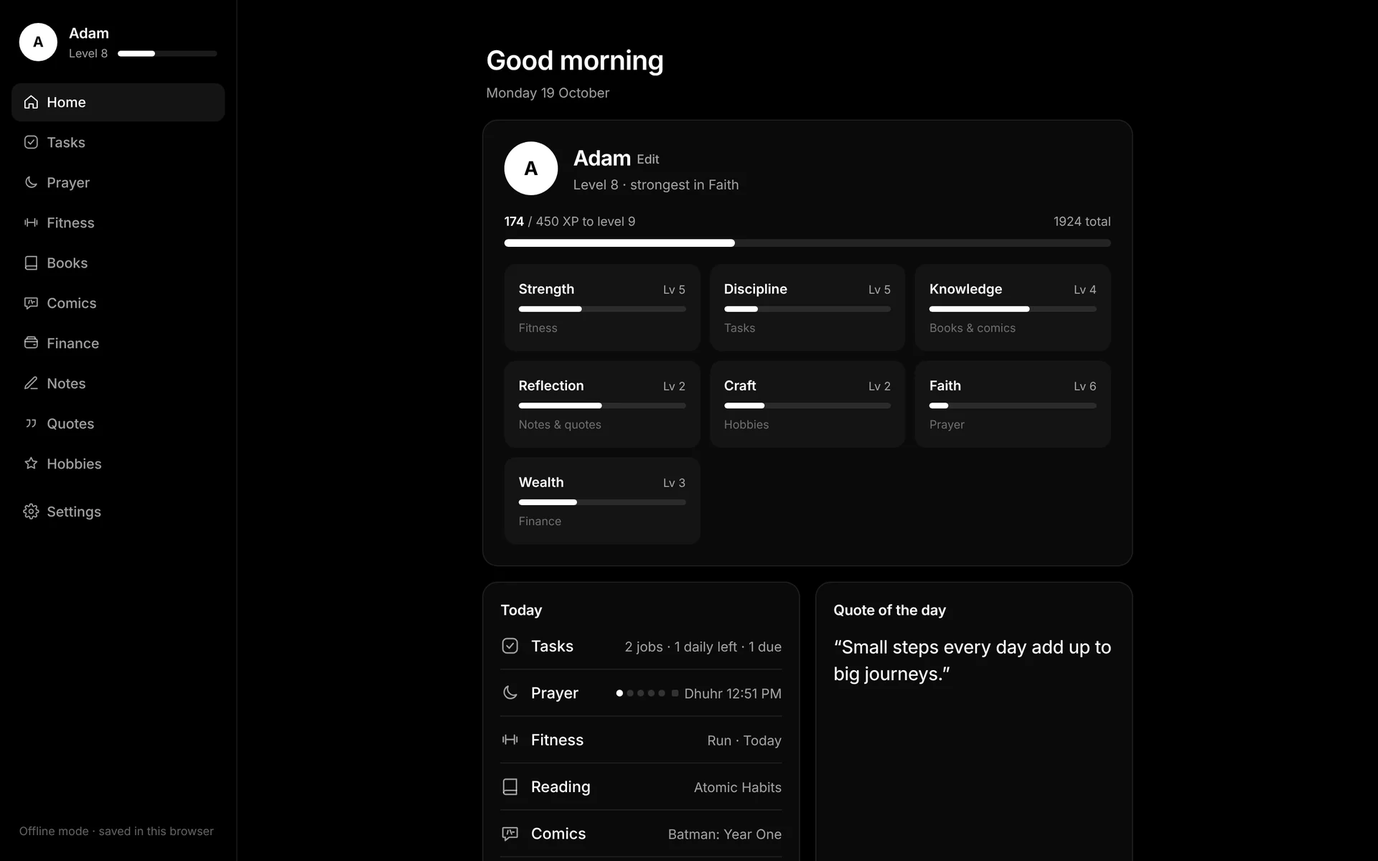
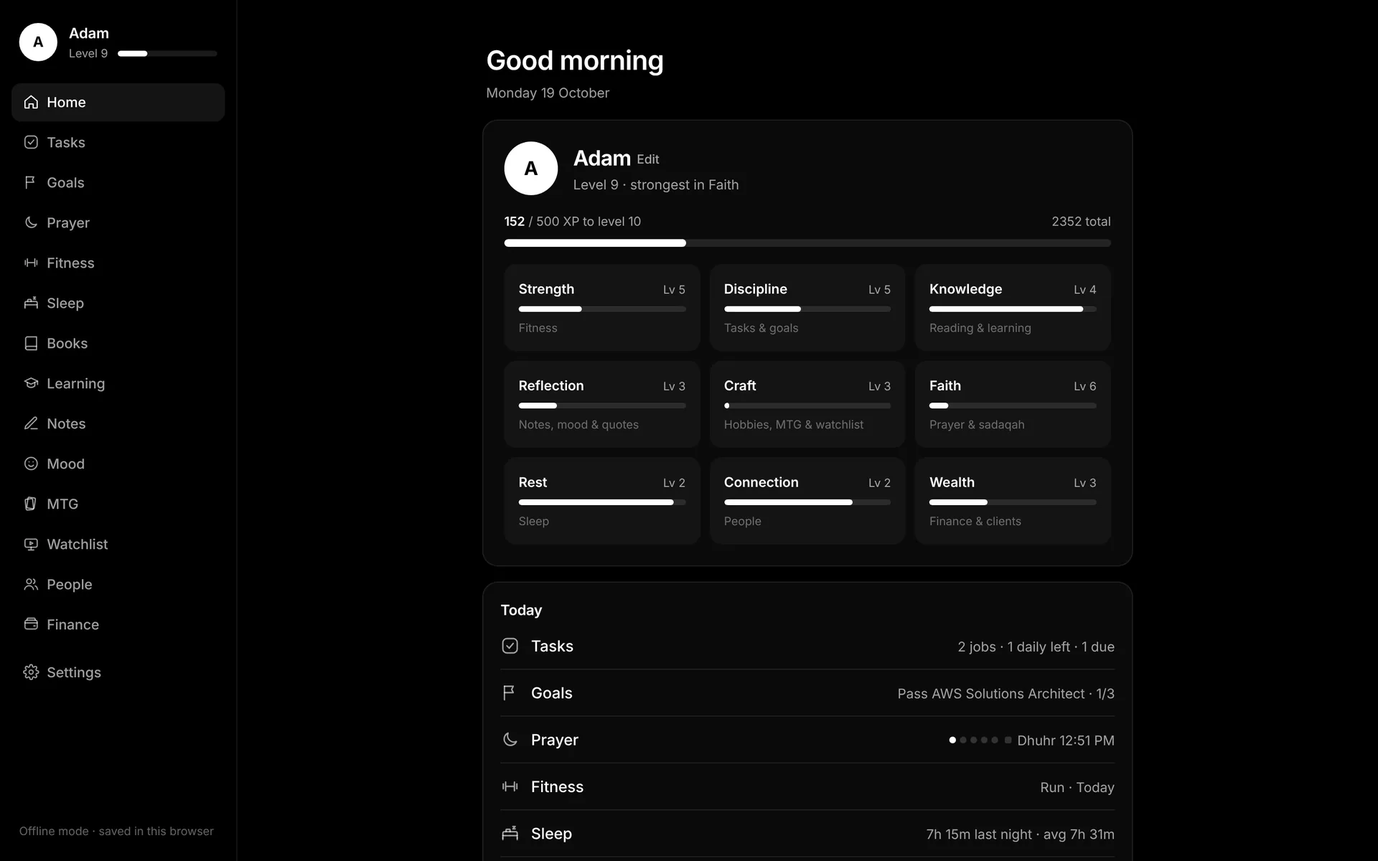
About page: 1.15, new sections, new screenshots; friendlier inline dates
Claude-Session: https://claude.ai/code/session_01XWyRxazPdnKDY2ha7DeKFt

diff --git a/about.html b/about.html
@@ -6,12 +6,12 @@
 <meta name="theme-color" content="#000000">
 <meta name="color-scheme" content="dark">
 <title>Life Quest · Your real life, levelled up</title>
-<meta name="description" content="Prayers, habits, training, reading, money and hobbies in one calm, black-and-white app. Every win earns XP toward seven stats and one level. Free, no ads, works on any device.">
+<meta name="description" content="Prayers, habits, goals, training, sleep, reading, learning, money, people and hobbies in one calm, black-and-white app. Every win earns XP toward nine stats and one level. Free, no ads, works on any device.">
 <link rel="canonical" href="https://life-quest-7qp.pages.dev/about">
 <meta property="og:type" content="website">
 <meta property="og:site_name" content="Life Quest">
 <meta property="og:title" content="Life Quest · Your real life, levelled up">
-<meta property="og:description" content="Prayers, habits, training, reading, money and hobbies in one app. Every win earns XP. Free, no ads.">
+<meta property="og:description" content="Prayers, habits, goals, sleep, reading, money, people and hobbies in one app. Every win earns XP. Free, no ads.">
 <meta property="og:url" content="https://life-quest-7qp.pages.dev/about">
 <meta property="og:image" content="https://life-quest-7qp.pages.dev/img/showcase/og.png">
 <meta property="og:image:width" content="1200">
@@ -75,17 +75,17 @@ a{color:#ffffff}a:hover{color:#d4d4d4}
     </div>
     <div style="padding: 22px 16px; text-align: center; display: flex; flex-direction: column; gap: 4px; border-left: 1px solid rgba(255,255,255,.12)">
       <span style="font-size: 11px; font-weight: 600; letter-spacing: .12em; text-transform: uppercase; color: #a3a3a3">Sections</span>
-      <span style="font-size: 28px; font-weight: 700; letter-spacing: -.02em">9</span>
+      <span style="font-size: 28px; font-weight: 700; letter-spacing: -.02em">17</span>
       <span style="font-size: 13px; color: #a3a3a3">Use only what you need</span>
     </div>
     <div style="padding: 22px 16px; text-align: center; display: flex; flex-direction: column; gap: 4px; border-left: 1px solid rgba(255,255,255,.12)">
       <span style="font-size: 11px; font-weight: 600; letter-spacing: .12em; text-transform: uppercase; color: #a3a3a3">Stats</span>
-      <span style="font-size: 28px; font-weight: 700; letter-spacing: -.02em">7</span>
+      <span style="font-size: 28px; font-weight: 700; letter-spacing: -.02em">9</span>
       <span style="font-size: 13px; color: #a3a3a3">One level to grow</span>
     </div>
     <div style="padding: 22px 16px; text-align: center; display: flex; flex-direction: column; gap: 4px; border-left: 1px solid rgba(255,255,255,.12)">
       <span style="font-size: 11px; font-weight: 600; letter-spacing: .12em; text-transform: uppercase; color: #a3a3a3">Size</span>
-      <span style="font-size: 28px; font-weight: 700; letter-spacing: -.02em">240 KB</span>
+      <span style="font-size: 28px; font-weight: 700; letter-spacing: -.02em">260 KB</span>
       <span style="font-size: 13px; color: #a3a3a3">Opens in a blink</span>
     </div>
     <div style="padding: 22px 16px; text-align: center; display: flex; flex-direction: column; gap: 4px; border-left: 1px solid rgba(255,255,255,.12)">
@@ -95,7 +95,7 @@ a{color:#ffffff}a:hover{color:#d4d4d4}
     </div>
     <div style="padding: 22px 16px; text-align: center; display: flex; flex-direction: column; gap: 4px; border-left: 1px solid rgba(255,255,255,.12)">
       <span style="font-size: 11px; font-weight: 600; letter-spacing: .12em; text-transform: uppercase; color: #a3a3a3">Version</span>
-      <span style="font-size: 28px; font-weight: 700; letter-spacing: -.02em">1.13</span>
+      <span style="font-size: 28px; font-weight: 700; letter-spacing: -.02em">1.15</span>
       <span style="font-size: 13px; color: #a3a3a3">Updated 19 Oct 2026</span>
     </div>
   </section>
@@ -106,8 +106,8 @@ a{color:#ffffff}a:hover{color:#d4d4d4}
     <div class="lq-shots" style="display: flex; gap: 20px; overflow-x: auto; scroll-snap-type: x mandatory; padding-bottom: 16px; margin: 0 -24px; padding-left: 24px; padding-right: 24px">
 
       <figure style="margin: 0; flex: none; width: 272px; scroll-snap-align: start; display: flex; flex-direction: column; gap: 16px; background: #0d0d0d; border: 1px solid rgba(255,255,255,.1); border-radius: 28px; padding: 22px 16px 16px; box-sizing: border-box">
-        <figcaption style="padding: 0 6px; display: flex; flex-direction: column; gap: 4px"><span style="font-family: 'Instrument Serif', Georgia, serif; font-size: 30px; line-height: 1.05">Level up your real life</span><span style="font-size: 13px; color: #a3a3a3">Seven stats, one level, all from everyday wins.</span></figcaption>
-        <img decoding="async" fetchpriority="high" src="/img/showcase/home.webp" alt="Home screen showing level 8, seven stat bars and today's summary" style="width: 100%; aspect-ratio: 390 / 844; border-radius: 22px; border: 1px solid rgba(255,255,255,.12); display: block; object-fit: cover">
+        <figcaption style="padding: 0 6px; display: flex; flex-direction: column; gap: 4px"><span style="font-family: 'Instrument Serif', Georgia, serif; font-size: 30px; line-height: 1.05">Level up your real life</span><span style="font-size: 13px; color: #a3a3a3">Nine stats, one level, all from everyday wins.</span></figcaption>
+        <img decoding="async" fetchpriority="high" src="/img/showcase/home.webp" alt="Home screen showing level 9 and nine stat bars" style="width: 100%; aspect-ratio: 390 / 844; border-radius: 22px; border: 1px solid rgba(255,255,255,.12); display: block; object-fit: cover">
       </figure>
 
       <figure style="margin: 0; flex: none; width: 272px; scroll-snap-align: start; display: flex; flex-direction: column; gap: 16px; background: #0d0d0d; border: 1px solid rgba(255,255,255,.1); border-radius: 28px; padding: 22px 16px 16px; box-sizing: border-box">
@@ -123,6 +123,26 @@ a{color:#ffffff}a:hover{color:#d4d4d4}
       <figure style="margin: 0; flex: none; width: 272px; scroll-snap-align: start; display: flex; flex-direction: column; gap: 16px; background: #0d0d0d; border: 1px solid rgba(255,255,255,.1); border-radius: 28px; padding: 22px 16px 16px; box-sizing: border-box">
         <figcaption style="padding: 0 6px; display: flex; flex-direction: column; gap: 4px"><span style="font-family: 'Instrument Serif', Georgia, serif; font-size: 30px; line-height: 1.05">Habits, jobs and to-dos</span><span style="font-size: 13px; color: #a3a3a3">Daily habits reset each morning. Jobs get their own list.</span></figcaption>
         <img loading="lazy" decoding="async" src="/img/showcase/tasks.webp" alt="Tasks page with daily habits, jobs and a to-do list" style="width: 100%; aspect-ratio: 390 / 844; border-radius: 22px; border: 1px solid rgba(255,255,255,.12); display: block; object-fit: cover">
+      </figure>
+
+      <figure style="margin: 0; flex: none; width: 272px; scroll-snap-align: start; display: flex; flex-direction: column; gap: 16px; background: #0d0d0d; border: 1px solid rgba(255,255,255,.1); border-radius: 28px; padding: 22px 16px 16px; box-sizing: border-box">
+        <figcaption style="padding: 0 6px; display: flex; flex-direction: column; gap: 4px"><span style="font-family: 'Instrument Serif', Georgia, serif; font-size: 30px; line-height: 1.05">Goals, one step at a time</span><span style="font-size: 13px; color: #a3a3a3">Break big goals into milestones and tick them off.</span></figcaption>
+        <img loading="lazy" decoding="async" src="/img/showcase/goals.webp" alt="Goals page with two goals and their milestone progress" style="width: 100%; aspect-ratio: 390 / 844; border-radius: 22px; border: 1px solid rgba(255,255,255,.12); display: block; object-fit: cover">
+      </figure>
+
+      <figure style="margin: 0; flex: none; width: 272px; scroll-snap-align: start; display: flex; flex-direction: column; gap: 16px; background: #0d0d0d; border: 1px solid rgba(255,255,255,.1); border-radius: 28px; padding: 22px 16px 16px; box-sizing: border-box">
+        <figcaption style="padding: 0 6px; display: flex; flex-direction: column; gap: 4px"><span style="font-family: 'Instrument Serif', Georgia, serif; font-size: 30px; line-height: 1.05">Stay close to your people</span><span style="font-size: 13px; color: #a3a3a3">See who’s due a catch-up. Log a call in one tap.</span></figcaption>
+        <img loading="lazy" decoding="async" src="/img/showcase/people.webp" alt="People page listing who is overdue for a catch-up, with Message, Call and Visit buttons" style="width: 100%; aspect-ratio: 390 / 844; border-radius: 22px; border: 1px solid rgba(255,255,255,.12); display: block; object-fit: cover">
+      </figure>
+
+      <figure style="margin: 0; flex: none; width: 272px; scroll-snap-align: start; display: flex; flex-direction: column; gap: 16px; background: #0d0d0d; border: 1px solid rgba(255,255,255,.1); border-radius: 28px; padding: 22px 16px 16px; box-sizing: border-box">
+        <figcaption style="padding: 0 6px; display: flex; flex-direction: column; gap: 4px"><span style="font-family: 'Instrument Serif', Georgia, serif; font-size: 30px; line-height: 1.05">How are you, really?</span><span style="font-size: 13px; color: #a3a3a3">A daily check-in and one thing you’re grateful for.</span></figcaption>
+        <img loading="lazy" decoding="async" src="/img/showcase/mood.webp" alt="Mood page with a five-face check-in and a five-week mood calendar" style="width: 100%; aspect-ratio: 390 / 844; border-radius: 22px; border: 1px solid rgba(255,255,255,.12); display: block; object-fit: cover">
+      </figure>
+
+      <figure style="margin: 0; flex: none; width: 272px; scroll-snap-align: start; display: flex; flex-direction: column; gap: 16px; background: #0d0d0d; border: 1px solid rgba(255,255,255,.1); border-radius: 28px; padding: 22px 16px 16px; box-sizing: border-box">
+        <figcaption style="padding: 0 6px; display: flex; flex-direction: column; gap: 4px"><span style="font-family: 'Instrument Serif', Georgia, serif; font-size: 30px; line-height: 1.05">Your decks, your record</span><span style="font-size: 13px; color: #a3a3a3">Paste a decklist for the mana curve. Log games, track win rates.</span></figcaption>
+        <img loading="lazy" decoding="async" src="/img/showcase/mtg.webp" alt="MTG deck page with record, win rate and a mana curve chart" style="width: 100%; aspect-ratio: 390 / 844; border-radius: 22px; border: 1px solid rgba(255,255,255,.12); display: block; object-fit: cover">
       </figure>
 
       <figure style="margin: 0; flex: none; width: 272px; scroll-snap-align: start; display: flex; flex-direction: column; gap: 16px; background: #0d0d0d; border: 1px solid rgba(255,255,255,.1); border-radius: 28px; padding: 22px 16px 16px; box-sizing: border-box">
@@ -159,8 +179,8 @@ a{color:#ffffff}a:hover{color:#d4d4d4}
       <h2 style="margin: 0; font-family: 'Instrument Serif', Georgia, serif; font-weight: 400; font-size: 44px; line-height: 1.05">One app for the life you're building.</h2>
     </div>
     <div style="display: flex; flex-direction: column; gap: 14px; color: #d4d4d4; font-size: 17px">
-      <p style="margin: 0">Life Quest brings your prayers, habits, training, reading, money and hobbies into one calm, black-and-white app, then turns your progress into something you can see.</p>
-      <p style="margin: 0">Every prayer prayed, run logged, page read and budget kept earns XP toward seven stats: Strength, Discipline, Knowledge, Reflection, Craft, Faith and Wealth. They all add up to one level, your level.</p>
+      <p style="margin: 0">Life Quest brings your prayers, habits, goals, training, sleep, reading, money, friendships and hobbies into one calm, black-and-white app, then turns your progress into something you can see.</p>
+      <p style="margin: 0">Every prayer prayed, run logged, page read, friend called and budget kept earns XP toward nine stats: Strength, Discipline, Knowledge, Reflection, Craft, Faith, Rest, Connection and Wealth. They all add up to one level, your level.</p>
       <p style="margin: 0">Use only the sections that fit your life. Everything syncs between your phone and laptop, and your data is locked to your account.</p>
     </div>
   </section>
@@ -169,15 +189,18 @@ a{color:#ffffff}a:hover{color:#d4d4d4}
   <section aria-labelledby="lq-new" style="display: flex; flex-direction: column; gap: 18px; padding: 32px; border-radius: 24px; background: #0d0d0d; border: 1px solid rgba(255,255,255,.1)">
     <div style="display: flex; flex-wrap: wrap; justify-content: space-between; align-items: baseline; gap: 8px">
       <h2 id="lq-new" style="margin: 0; font-size: 26px; font-weight: 700; letter-spacing: -.02em">What's New</h2>
-      <span style="font-size: 14px; color: #a3a3a3">Version 1.13 · 19 Oct 2026</span>
+      <span style="font-size: 14px; color: #a3a3a3">Version 1.15 · 19 Oct 2026</span>
     </div>
     <ul style="margin: 0; padding-left: 20px; display: flex; flex-direction: column; gap: 8px; color: #d4d4d4">
-      <li>New Comics section: series, issues, trades and manga, with a reading pile, collection and ratings.</li>
-      <li>Scan barcodes with your camera on Books and Comics. ISBNs fill in the title and cover; single issues pick up their issue number.</li>
-      <li>Comics count toward Knowledge: 15 XP per comic read.</li>
-      <li>This page, so you can share Life Quest with a proper preview card.</li>
+      <li>Seven new sections: Goals, Learning, Mood, People, Watchlist, Clients and MTG.</li>
+      <li>Goals break into milestones you tick off. Learning tracks study time toward a target.</li>
+      <li>Mood is a daily check-in with one thing you’re grateful for. People reminds you who’s due a catch-up.</li>
+      <li>MTG keeps your decks with commander art and win rates. Paste a decklist to see the mana curve and card types.</li>
+      <li>Log Sadaqah in Finance, and a new Connection stat grows as you keep in touch.</li>
     </ul>
     <div style="display: flex; flex-wrap: wrap; gap: 8px; padding-top: 6px">
+      <span style="font-size: 13px; padding: 6px 12px; border-radius: 999px; border: 1px solid rgba(255,255,255,.16); color: #d4d4d4">1.14 Sleep tracker</span>
+      <span style="font-size: 13px; padding: 6px 12px; border-radius: 999px; border: 1px solid rgba(255,255,255,.16); color: #d4d4d4">1.12 Comics &amp; barcode scanner</span>
       <span style="font-size: 13px; padding: 6px 12px; border-radius: 999px; border: 1px solid rgba(255,255,255,.16); color: #d4d4d4">1.11 Fair-use limits</span>
       <span style="font-size: 13px; padding: 6px 12px; border-radius: 999px; border: 1px solid rgba(255,255,255,.16); color: #d4d4d4">1.9 MUIS prayer times</span>
       <span style="font-size: 13px; padding: 6px 12px; border-radius: 999px; border: 1px solid rgba(255,255,255,.16); color: #d4d4d4">1.8 Reorder sections</span>
@@ -199,6 +222,16 @@ a{color:#ffffff}a:hover{color:#d4d4d4}
         <p style="margin: 0; font-size: 14px; color: #a3a3a3">To-dos, jobs with due dates, and daily habits that reset every morning.</p>
       </div>
       <div class="lq-feature" style="display: flex; flex-direction: column; gap: 10px; padding: 22px; border-radius: 18px; background: #0d0d0d; border: 1px solid rgba(255,255,255,.1)">
+        <svg width="26" height="26" viewBox="0 0 24 24" fill="none" stroke="#ffffff" stroke-width="1.75" stroke-linecap="round" stroke-linejoin="round" aria-hidden="true"><path d="M5 21V4"></path><path d="M5 4h11l-2 4 2 4H5"></path></svg>
+        <h3 style="margin: 0; font-size: 18px; font-weight: 600">Goals</h3>
+        <p style="margin: 0; font-size: 14px; color: #a3a3a3">Big goals broken into milestones, with a target date and a reason why.</p>
+      </div>
+      <div class="lq-feature" style="display: flex; flex-direction: column; gap: 10px; padding: 22px; border-radius: 18px; background: #0d0d0d; border: 1px solid rgba(255,255,255,.1)">
+        <svg width="26" height="26" viewBox="0 0 24 24" fill="none" stroke="#ffffff" stroke-width="1.75" stroke-linecap="round" stroke-linejoin="round" aria-hidden="true"><rect x="3" y="7" width="18" height="13" rx="2.5"></rect><path d="M8.5 7V5.5A1.5 1.5 0 0 1 10 4h4a1.5 1.5 0 0 1 1.5 1.5V7"></path><path d="M3 12.5h18"></path></svg>
+        <h3 style="margin: 0; font-size: 18px; font-weight: 600">Clients</h3>
+        <p style="margin: 0; font-size: 14px; color: #a3a3a3">A side-gig pipeline from lead to paid, with the payment sent to Finance.</p>
+      </div>
+      <div class="lq-feature" style="display: flex; flex-direction: column; gap: 10px; padding: 22px; border-radius: 18px; background: #0d0d0d; border: 1px solid rgba(255,255,255,.1)">
         <svg width="26" height="26" viewBox="0 0 24 24" fill="none" stroke="#ffffff" stroke-width="1.75" stroke-linecap="round" stroke-linejoin="round" aria-hidden="true"><path d="M20 14.5A8 8 0 0 1 9.5 4a8 8 0 1 0 10.5 10.5z"></path></svg>
         <h3 style="margin: 0; font-size: 18px; font-weight: 600">Prayer</h3>
         <p style="margin: 0; font-size: 14px; color: #a3a3a3">The five daily prayers and the Daily Awrad, with MUIS times, streaks and a week view.</p>
@@ -207,6 +240,11 @@ a{color:#ffffff}a:hover{color:#d4d4d4}
         <svg width="26" height="26" viewBox="0 0 24 24" fill="none" stroke="#ffffff" stroke-width="1.75" stroke-linecap="round" stroke-linejoin="round" aria-hidden="true"><path d="M6.5 6.5v11M17.5 6.5v11M3.5 9v6M20.5 9v6M6.5 12h11"></path></svg>
         <h3 style="margin: 0; font-size: 18px; font-weight: 600">Fitness</h3>
         <p style="margin: 0; font-size: 14px; color: #a3a3a3">Runs, strength, cardio and sport, with minutes and kilometres by week and month.</p>
+      </div>
+      <div class="lq-feature" style="display: flex; flex-direction: column; gap: 10px; padding: 22px; border-radius: 18px; background: #0d0d0d; border: 1px solid rgba(255,255,255,.1)">
+        <svg width="26" height="26" viewBox="0 0 24 24" fill="none" stroke="#ffffff" stroke-width="1.75" stroke-linecap="round" stroke-linejoin="round" aria-hidden="true"><path d="M3 18v-6a2 2 0 0 1 2-2h14a2 2 0 0 1 2 2v6"></path><path d="M3 15h18M3 18v2M21 18v2"></path><path d="M7 10V8a1 1 0 0 1 1-1h3a1 1 0 0 1 1 1v2"></path><path d="M15.5 3.5h3l-3 3h3"></path></svg>
+        <h3 style="margin: 0; font-size: 18px; font-weight: 600">Sleep</h3>
+        <p style="margin: 0; font-size: 14px; color: #a3a3a3">Bedtime, wake time and how well you slept, against a goal you set.</p>
       </div>
       <div class="lq-feature" style="display: flex; flex-direction: column; gap: 10px; padding: 22px; border-radius: 18px; background: #0d0d0d; border: 1px solid rgba(255,255,255,.1)">
         <svg width="26" height="26" viewBox="0 0 24 24" fill="none" stroke="#ffffff" stroke-width="1.75" stroke-linecap="round" stroke-linejoin="round" aria-hidden="true"><path d="M4 19.5A2.5 2.5 0 0 1 6.5 17H20V3H6.5A2.5 2.5 0 0 0 4 5.5z"></path><path d="M4 19.5A2.5 2.5 0 0 0 6.5 22H20v-5"></path></svg>
@@ -219,14 +257,24 @@ a{color:#ffffff}a:hover{color:#d4d4d4}
         <p style="margin: 0; font-size: 14px; color: #a3a3a3">Issues, trades and manga. The scanner even reads the issue number off single issues.</p>
       </div>
       <div class="lq-feature" style="display: flex; flex-direction: column; gap: 10px; padding: 22px; border-radius: 18px; background: #0d0d0d; border: 1px solid rgba(255,255,255,.1)">
+        <svg width="26" height="26" viewBox="0 0 24 24" fill="none" stroke="#ffffff" stroke-width="1.75" stroke-linecap="round" stroke-linejoin="round" aria-hidden="true"><path d="M2.5 9 12 4.5 21.5 9 12 13.5z"></path><path d="M6.5 11v5c1.5 1.6 3.5 2.4 5.5 2.4s4-.8 5.5-2.4v-5"></path><path d="M21.5 9v5"></path></svg>
+        <h3 style="margin: 0; font-size: 18px; font-weight: 600">Learning</h3>
+        <p style="margin: 0; font-size: 14px; color: #a3a3a3">Courses, certifications and skills, with study time toward a target.</p>
+      </div>
+      <div class="lq-feature" style="display: flex; flex-direction: column; gap: 10px; padding: 22px; border-radius: 18px; background: #0d0d0d; border: 1px solid rgba(255,255,255,.1)">
         <svg width="26" height="26" viewBox="0 0 24 24" fill="none" stroke="#ffffff" stroke-width="1.75" stroke-linecap="round" stroke-linejoin="round" aria-hidden="true"><rect x="3" y="6" width="18" height="13" rx="3"></rect><path d="M3 10h18"></path><path d="M16 14.5h2"></path><path d="M6 6V5a2 2 0 0 1 2-2h8a2 2 0 0 1 2 2v1"></path></svg>
         <h3 style="margin: 0; font-size: 18px; font-weight: 600">Finance</h3>
-        <p style="margin: 0; font-size: 14px; color: #a3a3a3">Income and spending, monthly budgets per category, and savings goals you can watch fill up.</p>
+        <p style="margin: 0; font-size: 14px; color: #a3a3a3">Income and spending, monthly budgets, savings goals you can watch fill up, and Sadaqah.</p>
       </div>
       <div class="lq-feature" style="display: flex; flex-direction: column; gap: 10px; padding: 22px; border-radius: 18px; background: #0d0d0d; border: 1px solid rgba(255,255,255,.1)">
         <svg width="26" height="26" viewBox="0 0 24 24" fill="none" stroke="#ffffff" stroke-width="1.75" stroke-linecap="round" stroke-linejoin="round" aria-hidden="true"><path d="M12 20h9"></path><path d="M16.5 3.5a2.12 2.12 0 0 1 3 3L7 19l-4 1 1-4z"></path></svg>
         <h3 style="margin: 0; font-size: 18px; font-weight: 600">Notes</h3>
         <p style="margin: 0; font-size: 14px; color: #a3a3a3">A private journal with pinning and search.</p>
+      </div>
+      <div class="lq-feature" style="display: flex; flex-direction: column; gap: 10px; padding: 22px; border-radius: 18px; background: #0d0d0d; border: 1px solid rgba(255,255,255,.1)">
+        <svg width="26" height="26" viewBox="0 0 24 24" fill="none" stroke="#ffffff" stroke-width="1.75" stroke-linecap="round" stroke-linejoin="round" aria-hidden="true"><circle cx="12" cy="12" r="9"></circle><path d="M8.5 14.5c.9 1.2 2.1 1.8 3.5 1.8s2.6-.6 3.5-1.8"></path><path d="M9 9.5h.01M15 9.5h.01"></path></svg>
+        <h3 style="margin: 0; font-size: 18px; font-weight: 600">Mood</h3>
+        <p style="margin: 0; font-size: 14px; color: #a3a3a3">A daily check-in and one thing you’re grateful for, on a five-week calendar.</p>
       </div>
       <div class="lq-feature" style="display: flex; flex-direction: column; gap: 10px; padding: 22px; border-radius: 18px; background: #0d0d0d; border: 1px solid rgba(255,255,255,.1)">
         <svg width="26" height="26" viewBox="0 0 24 24" fill="none" stroke="#ffffff" stroke-width="1.75" stroke-linecap="round" stroke-linejoin="round" aria-hidden="true"><path d="M6 7h4v4c0 3-1.5 5-4 6"></path><path d="M14 7h4v4c0 3-1.5 5-4 6"></path></svg>
@@ -236,7 +284,22 @@ a{color:#ffffff}a:hover{color:#d4d4d4}
       <div class="lq-feature" style="display: flex; flex-direction: column; gap: 10px; padding: 22px; border-radius: 18px; background: #0d0d0d; border: 1px solid rgba(255,255,255,.1)">
         <svg width="26" height="26" viewBox="0 0 24 24" fill="none" stroke="#ffffff" stroke-width="1.75" stroke-linecap="round" stroke-linejoin="round" aria-hidden="true"><path d="m12 3 2.6 5.3 5.9.9-4.3 4.1 1 5.8L12 16.4l-5.2 2.7 1-5.8-4.3-4.1 5.9-.9z"></path></svg>
         <h3 style="margin: 0; font-size: 18px; font-weight: 600">Hobbies</h3>
-        <p style="margin: 0; font-size: 14px; color: #a3a3a3">Track the time you put into the things you love, from chess to card games.</p>
+        <p style="margin: 0; font-size: 14px; color: #a3a3a3">Track the time you put into the things you love, from chess to calligraphy.</p>
+      </div>
+      <div class="lq-feature" style="display: flex; flex-direction: column; gap: 10px; padding: 22px; border-radius: 18px; background: #0d0d0d; border: 1px solid rgba(255,255,255,.1)">
+        <svg width="26" height="26" viewBox="0 0 24 24" fill="none" stroke="#ffffff" stroke-width="1.75" stroke-linecap="round" stroke-linejoin="round" aria-hidden="true"><rect x="6.5" y="3" width="11" height="16" rx="2" transform="rotate(8 12 11)"></rect><rect x="4" y="5" width="11" height="16" rx="2" transform="rotate(-6 9.5 13)"></rect></svg>
+        <h3 style="margin: 0; font-size: 18px; font-weight: 600">MTG</h3>
+        <p style="margin: 0; font-size: 14px; color: #a3a3a3">Your Magic decks with commander art and win rates. Paste a decklist for the mana curve.</p>
+      </div>
+      <div class="lq-feature" style="display: flex; flex-direction: column; gap: 10px; padding: 22px; border-radius: 18px; background: #0d0d0d; border: 1px solid rgba(255,255,255,.1)">
+        <svg width="26" height="26" viewBox="0 0 24 24" fill="none" stroke="#ffffff" stroke-width="1.75" stroke-linecap="round" stroke-linejoin="round" aria-hidden="true"><rect x="3" y="5" width="18" height="12" rx="2.5"></rect><path d="M8 21h8M12 17v4"></path><path d="m10.5 8.8 4 2.2-4 2.2z"></path></svg>
+        <h3 style="margin: 0; font-size: 18px; font-weight: 600">Watchlist</h3>
+        <p style="margin: 0; font-size: 14px; color: #a3a3a3">Films, series and anime to watch, rated when you finish.</p>
+      </div>
+      <div class="lq-feature" style="display: flex; flex-direction: column; gap: 10px; padding: 22px; border-radius: 18px; background: #0d0d0d; border: 1px solid rgba(255,255,255,.1)">
+        <svg width="26" height="26" viewBox="0 0 24 24" fill="none" stroke="#ffffff" stroke-width="1.75" stroke-linecap="round" stroke-linejoin="round" aria-hidden="true"><circle cx="9" cy="8" r="3.5"></circle><path d="M2.5 20c.6-3.4 3.2-5.5 6.5-5.5s5.9 2.1 6.5 5.5"></path><path d="M15.5 4.8a3.5 3.5 0 0 1 0 6.4M18 14.8c1.9.8 3.1 2.6 3.5 5.2"></path></svg>
+        <h3 style="margin: 0; font-size: 18px; font-weight: 600">People</h3>
+        <p style="margin: 0; font-size: 14px; color: #a3a3a3">Who’s due a catch-up. Log a call, visit or message in one tap.</p>
       </div>
     </div>
   </section>
@@ -278,10 +341,11 @@ a{color:#ffffff}a:hover{color:#d4d4d4}
     <dl style="margin: 0; display: grid; grid-template-columns: repeat(auto-fit, minmax(300px, 1fr)); column-gap: 40px">
       <div style="display: flex; justify-content: space-between; gap: 16px; padding: 14px 0; border-bottom: 1px solid rgba(255,255,255,.1)"><dt style="color: #a3a3a3">Developer</dt><dd style="margin: 0; text-align: right">Zuhair</dd></div>
       <div style="display: flex; justify-content: space-between; gap: 16px; padding: 14px 0; border-bottom: 1px solid rgba(255,255,255,.1)"><dt style="color: #a3a3a3">Category</dt><dd style="margin: 0; text-align: right">Lifestyle</dd></div>
-      <div style="display: flex; justify-content: space-between; gap: 16px; padding: 14px 0; border-bottom: 1px solid rgba(255,255,255,.1)"><dt style="color: #a3a3a3">Size</dt><dd style="margin: 0; text-align: right">240 KB, plus 400 KB for the scanner</dd></div>
+      <div style="display: flex; justify-content: space-between; gap: 16px; padding: 14px 0; border-bottom: 1px solid rgba(255,255,255,.1)"><dt style="color: #a3a3a3">Size</dt><dd style="margin: 0; text-align: right">260 KB, plus 400 KB for the scanner</dd></div>
       <div style="display: flex; justify-content: space-between; gap: 16px; padding: 14px 0; border-bottom: 1px solid rgba(255,255,255,.1)"><dt style="color: #a3a3a3">Compatibility</dt><dd style="margin: 0; text-align: right">Any modern browser</dd></div>
       <div style="display: flex; justify-content: space-between; gap: 16px; padding: 14px 0; border-bottom: 1px solid rgba(255,255,255,.1)"><dt style="color: #a3a3a3">Languages</dt><dd style="margin: 0; text-align: right">English</dd></div>
       <div style="display: flex; justify-content: space-between; gap: 16px; padding: 14px 0; border-bottom: 1px solid rgba(255,255,255,.1)"><dt style="color: #a3a3a3">Prayer times</dt><dd style="margin: 0; text-align: right">MUIS, via prayertimes.sg</dd></div>
+      <div style="display: flex; justify-content: space-between; gap: 16px; padding: 14px 0; border-bottom: 1px solid rgba(255,255,255,.1)"><dt style="color: #a3a3a3">Card data</dt><dd style="margin: 0; text-align: right">Scryfall</dd></div>
       <div style="display: flex; justify-content: space-between; gap: 16px; padding: 14px 0; border-bottom: 1px solid rgba(255,255,255,.1)"><dt style="color: #a3a3a3">Price</dt><dd style="margin: 0; text-align: right">Free</dd></div>
       <div style="display: flex; justify-content: space-between; gap: 16px; padding: 14px 0; border-bottom: 1px solid rgba(255,255,255,.1)"><dt style="color: #a3a3a3">Copyright</dt><dd style="margin: 0; text-align: right">© 2026 Zuhair</dd></div>
     </dl>

diff --git a/js/views/home.js b/js/views/home.js
@@ -1,4 +1,4 @@
-import { html, raw, wire, mount, bar, today, relDate, fmtDate, greeting } from '../ui.js';
+import { html, raw, wire, mount, bar, today, relDate, relDateInline, fmtDate, greeting } from '../ui.js';
 import { icon } from '../icons.js';
 import { cachedTimes, loadMonth, nextPrayer } from '../prayertimes.js';
 import { addDays } from '../ui.js';
@@ -99,7 +99,7 @@ export default {
       mood: () => html`<a href="#/mood">${raw(icon('mood'))}<span class="t-label">Mood</span>
               <span class="t-val"><span class="t-txt">${moodToday[0] ? MOODS[moodToday[0].mood - 1] : 'Check in'}</span></span></a>`,
       mtg: () => html`<a href="#/mtg">${raw(icon('mtg'))}<span class="t-label">MTG</span>
-              <span class="t-val"><span class="t-txt">${lm ? `Last game ${relDate(lm.played_on).toLowerCase()} · ${lm.result}` : plural(decks.length, 'deck')}</span></span></a>`,
+              <span class="t-val"><span class="t-txt">${lm ? `Last game ${relDateInline(lm.played_on)} · ${lm.result}` : plural(decks.length, 'deck')}</span></span></a>`,
       watchlist: () => html`<a href="#/watchlist">${raw(icon('watchlist'))}<span class="t-label">Watching</span>
               <span class="t-val"><span class="t-txt">${watchingNow.length ? watchingNow.map((w) => w.title).join(', ') : 'Nothing on'}</span></span></a>`,
       people: () => html`<a href="#/people">${raw(icon('people'))}<span class="t-label">People</span>

diff --git a/js/views/watchlist.js b/js/views/watchlist.js
@@ -1,4 +1,4 @@
-import { html, raw, wire, mount, today, relDate, empty } from '../ui.js';
+import { html, raw, wire, mount, today, relDate, relDateInline, empty } from '../ui.js';
 import { icon } from '../icons.js';
 import { XP } from '../game.js';
 
@@ -25,7 +25,7 @@ export default {
     const row = (w) => html`
       <li class="item ${w.status === 'done' ? '' : ''}">
         <div class="body"><p class="title"><span class="pill">${KIND[w.kind]}</span>${w.title}</p>
-          ${w.note || w.done_on ? html`<p class="sub">${w.done_on ? `Finished ${relDate(w.done_on).toLowerCase()}` : ''}${w.done_on && w.note ? ' · ' : ''}${w.note || ''}</p>` : ''}</div>
+          ${w.note || w.done_on ? html`<p class="sub">${w.done_on ? `Finished ${relDateInline(w.done_on)}` : ''}${w.done_on && w.note ? ' · ' : ''}${w.note || ''}</p>` : ''}</div>
         ${w.status === 'queued' ? html`<button class="btn sm" data-act="start" data-id="${w.id}">${raw(icon('play', 14))}Start</button>` : ''}
         ${w.status !== 'done' ? html`<button class="btn sm ${w.status === 'watching' ? 'primary' : ''}" data-act="finish" data-id="${w.id}">${raw(icon('check', 14))}Watched</button>` : stars(w)}
         <details class="more"><summary class="icon-btn" aria-label="More for ${w.title}">⋯</summary>

diff --git a/js/views/people.js b/js/views/people.js
@@ -1,4 +1,4 @@
-import { html, raw, wire, mount, today, addDays, relDate, empty } from '../ui.js';
+import { html, raw, wire, mount, today, addDays, relDate, relDateInline, empty } from '../ui.js';
 import { icon } from '../icons.js';
 import { XP } from '../game.js';
 
@@ -32,7 +32,7 @@ export default {
       <li class="item person">
         <div class="body">
           <p class="title">${p.name}${p.relation ? html` <span class="muted">· ${p.relation}</span>` : ''}</p>
-          <p class="sub ${left < 0 ? 'due-late' : ''}">${last ? `${HOW[last.how]} ${relDate(last.contacted_on).toLowerCase()}` : 'Not logged yet'} · ${left < 0 ? `${-left} day${left === -1 ? '' : 's'} overdue` : left === 0 ? 'due today' : `in ${left} day${left === 1 ? '' : 's'}`}</p>
+          <p class="sub ${left < 0 ? 'due-late' : ''}">${last ? `${HOW[last.how]} ${relDateInline(last.contacted_on)}` : 'Not logged yet'} · ${left < 0 ? `${-left} day${left === -1 ? '' : 's'} overdue` : left === 0 ? 'due today' : `in ${left} day${left === 1 ? '' : 's'}`}</p>
         </div>
         <div class="row quick">
           ${['message', 'call', 'visit'].map((h) => html`<button class="btn sm" data-act="log" data-id="${p.id}" data-how="${h}" aria-label="Log a ${h} with ${p.name}">${HOW[h]}</button>`)}

diff --git a/js/views/clients.js b/js/views/clients.js
@@ -1,4 +1,4 @@
-import { html, raw, wire, mount, today, relDate, empty } from '../ui.js';
+import { html, raw, wire, mount, today, relDate, relDateInline, empty } from '../ui.js';
 import { icon } from '../icons.js';
 import { XP, money, cents } from '../game.js';
 
@@ -33,7 +33,7 @@ export default {
         <li class="item">
           <div class="body">
             <p class="title"><span class="pill ${p.stage === 'active' ? 'solid' : ''}">${LABEL[p.stage]}</span>${p.title}</p>
-            <p class="sub ${late ? 'due-late' : ''}">${p.client}${p.value ? ` · ${$(p.value)}` : ''}${p.due_on ? ` · ${late ? 'overdue ' : 'due '}${relDate(p.due_on).toLowerCase()}` : ''}${p.note ? ` · ${p.note}` : ''}</p>
+            <p class="sub ${late ? 'due-late' : ''}">${p.client}${p.value ? ` · ${$(p.value)}` : ''}${p.due_on ? ` · ${late ? 'was due ' : 'due '}${relDateInline(p.due_on)}` : ''}${p.note ? ` · ${p.note}` : ''}</p>
           </div>
           ${next ? html`<button class="btn sm" data-act="advance" data-id="${p.id}">${next === 'paid' ? 'Paid' : LABEL[next]} ${raw(icon('right', 14))}</button>` : ''}
           <details class="more"><summary class="icon-btn" aria-label="More for ${p.title}">⋯</summary>

diff --git a/js/views/hobbies.js b/js/views/hobbies.js
@@ -1,4 +1,4 @@
-import { html, raw, wire, mount, today, addDays, relDate, empty } from '../ui.js';
+import { html, raw, wire, mount, today, addDays, relDate, relDateInline, empty } from '../ui.js';
 import { icon } from '../icons.js';
 import { XP } from '../game.js';
 
@@ -44,7 +44,7 @@ export default {
           return html`
             <li class="item">
               <div class="body"><p class="title">${h.name}</p>
-                <p class="sub">${s.n} session${s.n === 1 ? '' : 's'} · ${hrs(s.min)}${s.last ? ` · last ${relDate(s.last).toLowerCase()}` : ''}</p></div>
+                <p class="sub">${s.n} session${s.n === 1 ? '' : 's'} · ${hrs(s.min)}${s.last ? ` · last ${relDateInline(s.last)}` : ''}</p></div>
               <button class="icon-btn" data-act="delhobby" data-id="${h.id}" aria-label="Delete ${h.name}">${raw(icon('trash'))}</button>
             </li>`;
         })}</ul>` : empty('Add a hobby to start tracking time spent on it.')}

diff --git a/js/ui.js b/js/ui.js
@@ -70,6 +70,11 @@ export function relDate(key) {
   if (key === addDays(t, 1)) return 'Tomorrow';
   return fmtDate(key);
 }
+// For mid-sentence use: "today", "yesterday", or "on Wed, 9 Oct".
+export function relDateInline(key) {
+  const r = relDate(key);
+  return /^(Today|Yesterday|Tomorrow)$/.test(r) ? r.toLowerCase() : `on ${r}`;
+}
 export function greeting() {
   const h = new Date().getHours();
   return h < 5 ? 'Good night' : h < 12 ? 'Good morning' : h < 18 ? 'Good afternoon' : 'Good evening';
